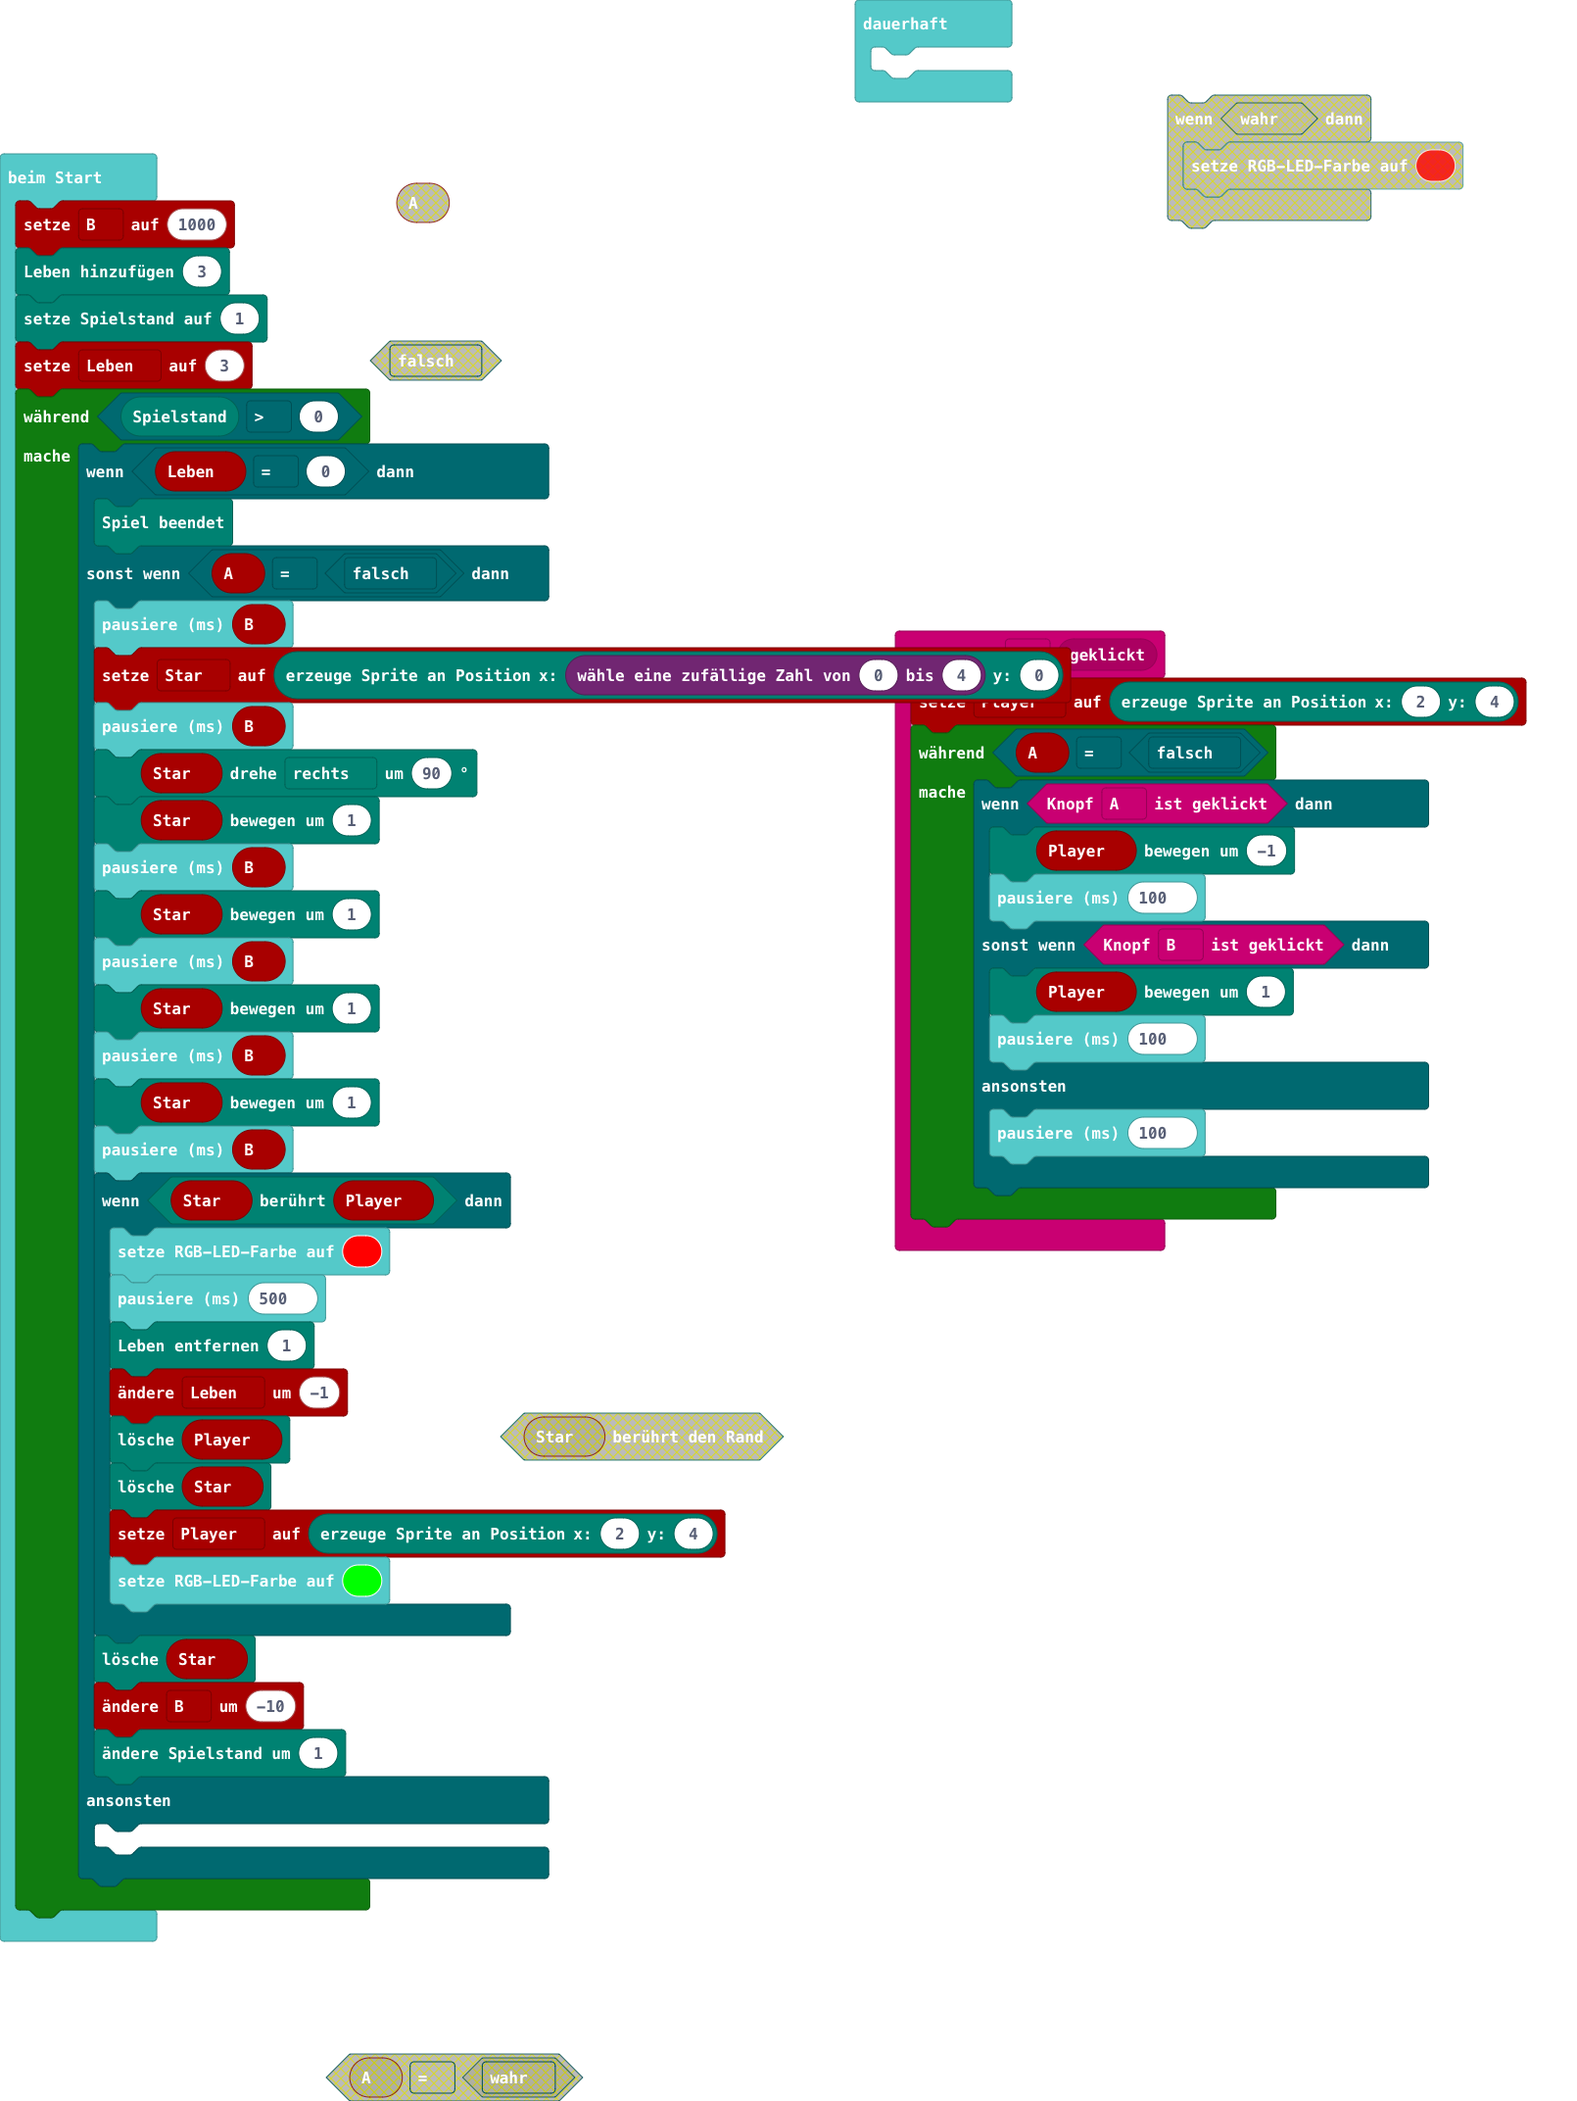
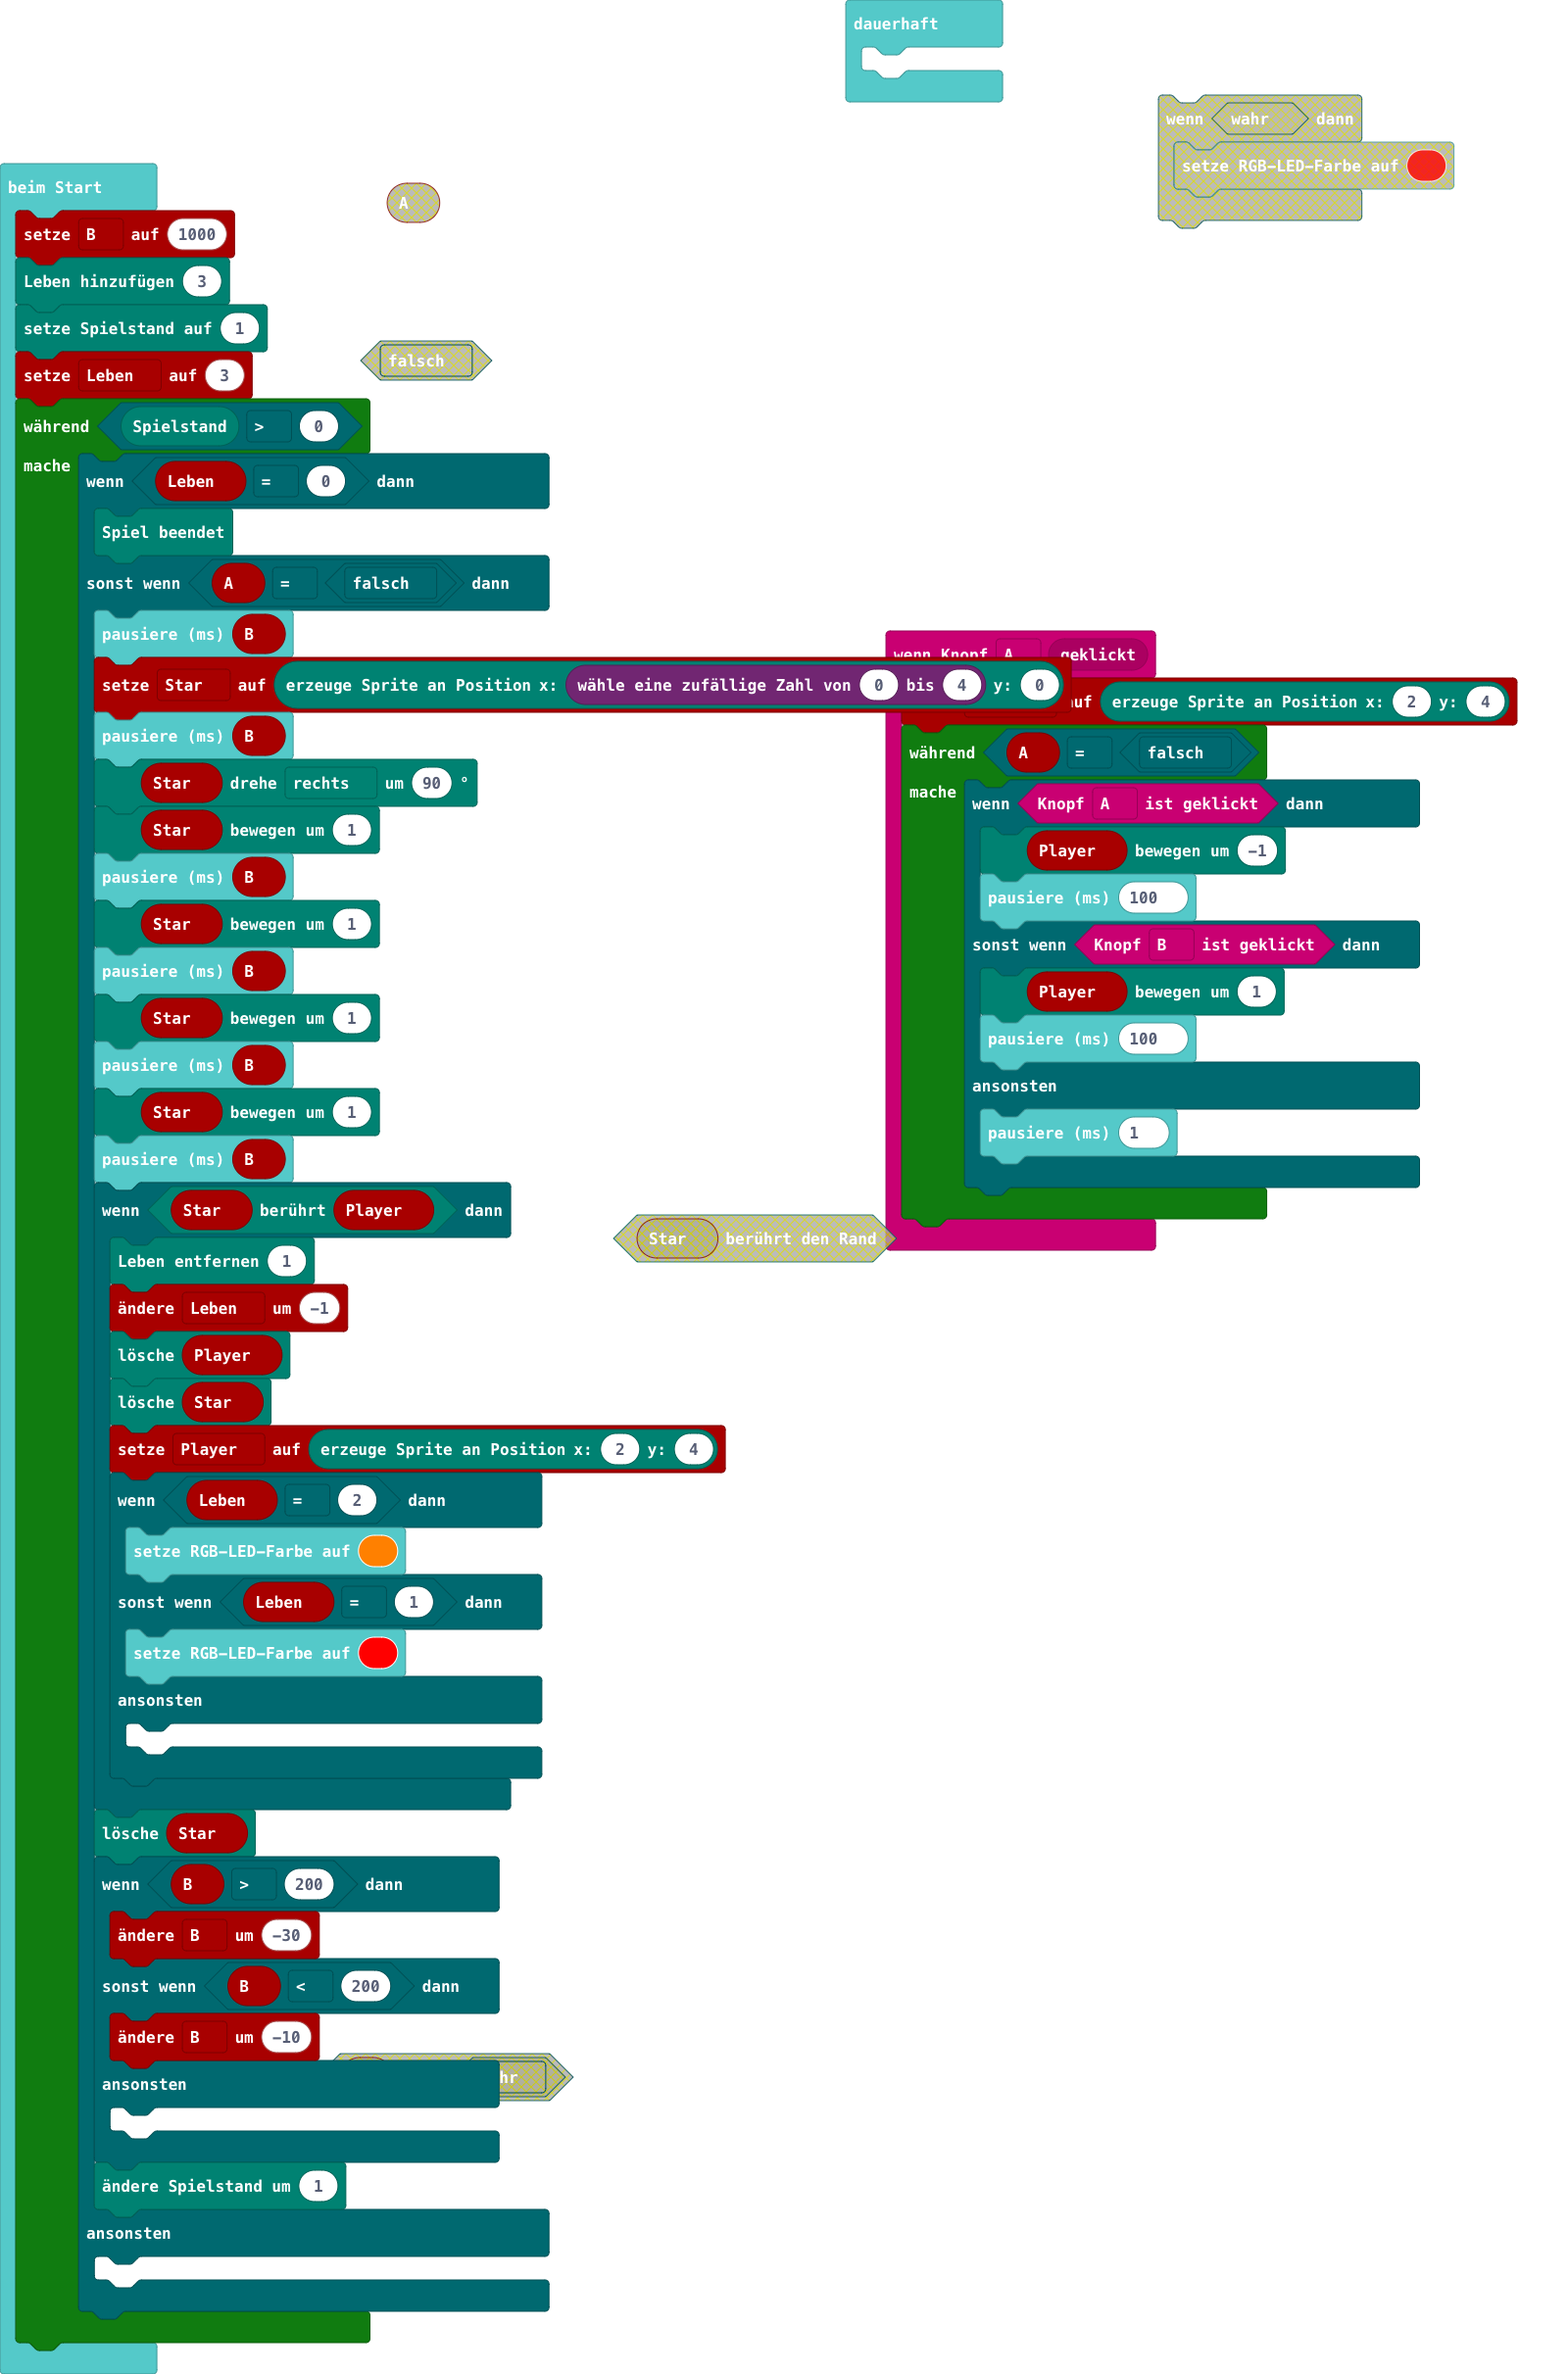
Aktualisiere pxt.json, main.blocks, main.ts

Changed region(s): [[0.0, 0.0625, 0.9688, 1.0], [0.7188, 0.0312, 0.9375, 0.125], [0.5312, 0.0, 0.6562, 0.0625]]

diff --git a/main.ts b/main.ts
@@ -8,7 +8,7 @@ input.onButtonEvent(Button.A, input.buttonEventClick(), function () {
             Player.move(1)
             basic.pause(100)
         } else {
-            basic.pause(100)
+            basic.pause(1)
         }
     }
 })
@@ -36,17 +36,27 @@ while (game.score() > 0) {
         Star.move(1)
         basic.pause(B)
         if (Star.isTouching(Player)) {
-            basic.setLedColor(0xff0000)
-            basic.pause(500)
             game.removeLife(1)
             Leben += -1
             Player.delete()
             Star.delete()
             Player = game.createSprite(2, 4)
-            basic.setLedColor(0x00ff00)
+            if (Leben == 2) {
+                basic.setLedColor(0xff8000)
+            } else if (Leben == 1) {
+                basic.setLedColor(0xff0000)
+            } else {
+            	
+            }
         }
         Star.delete()
-        B += -10
+        if (B > 200) {
+            B += -30
+        } else if (B < 200) {
+            B += -10
+        } else {
+        	
+        }
         game.addScore(1)
     } else {
     	
